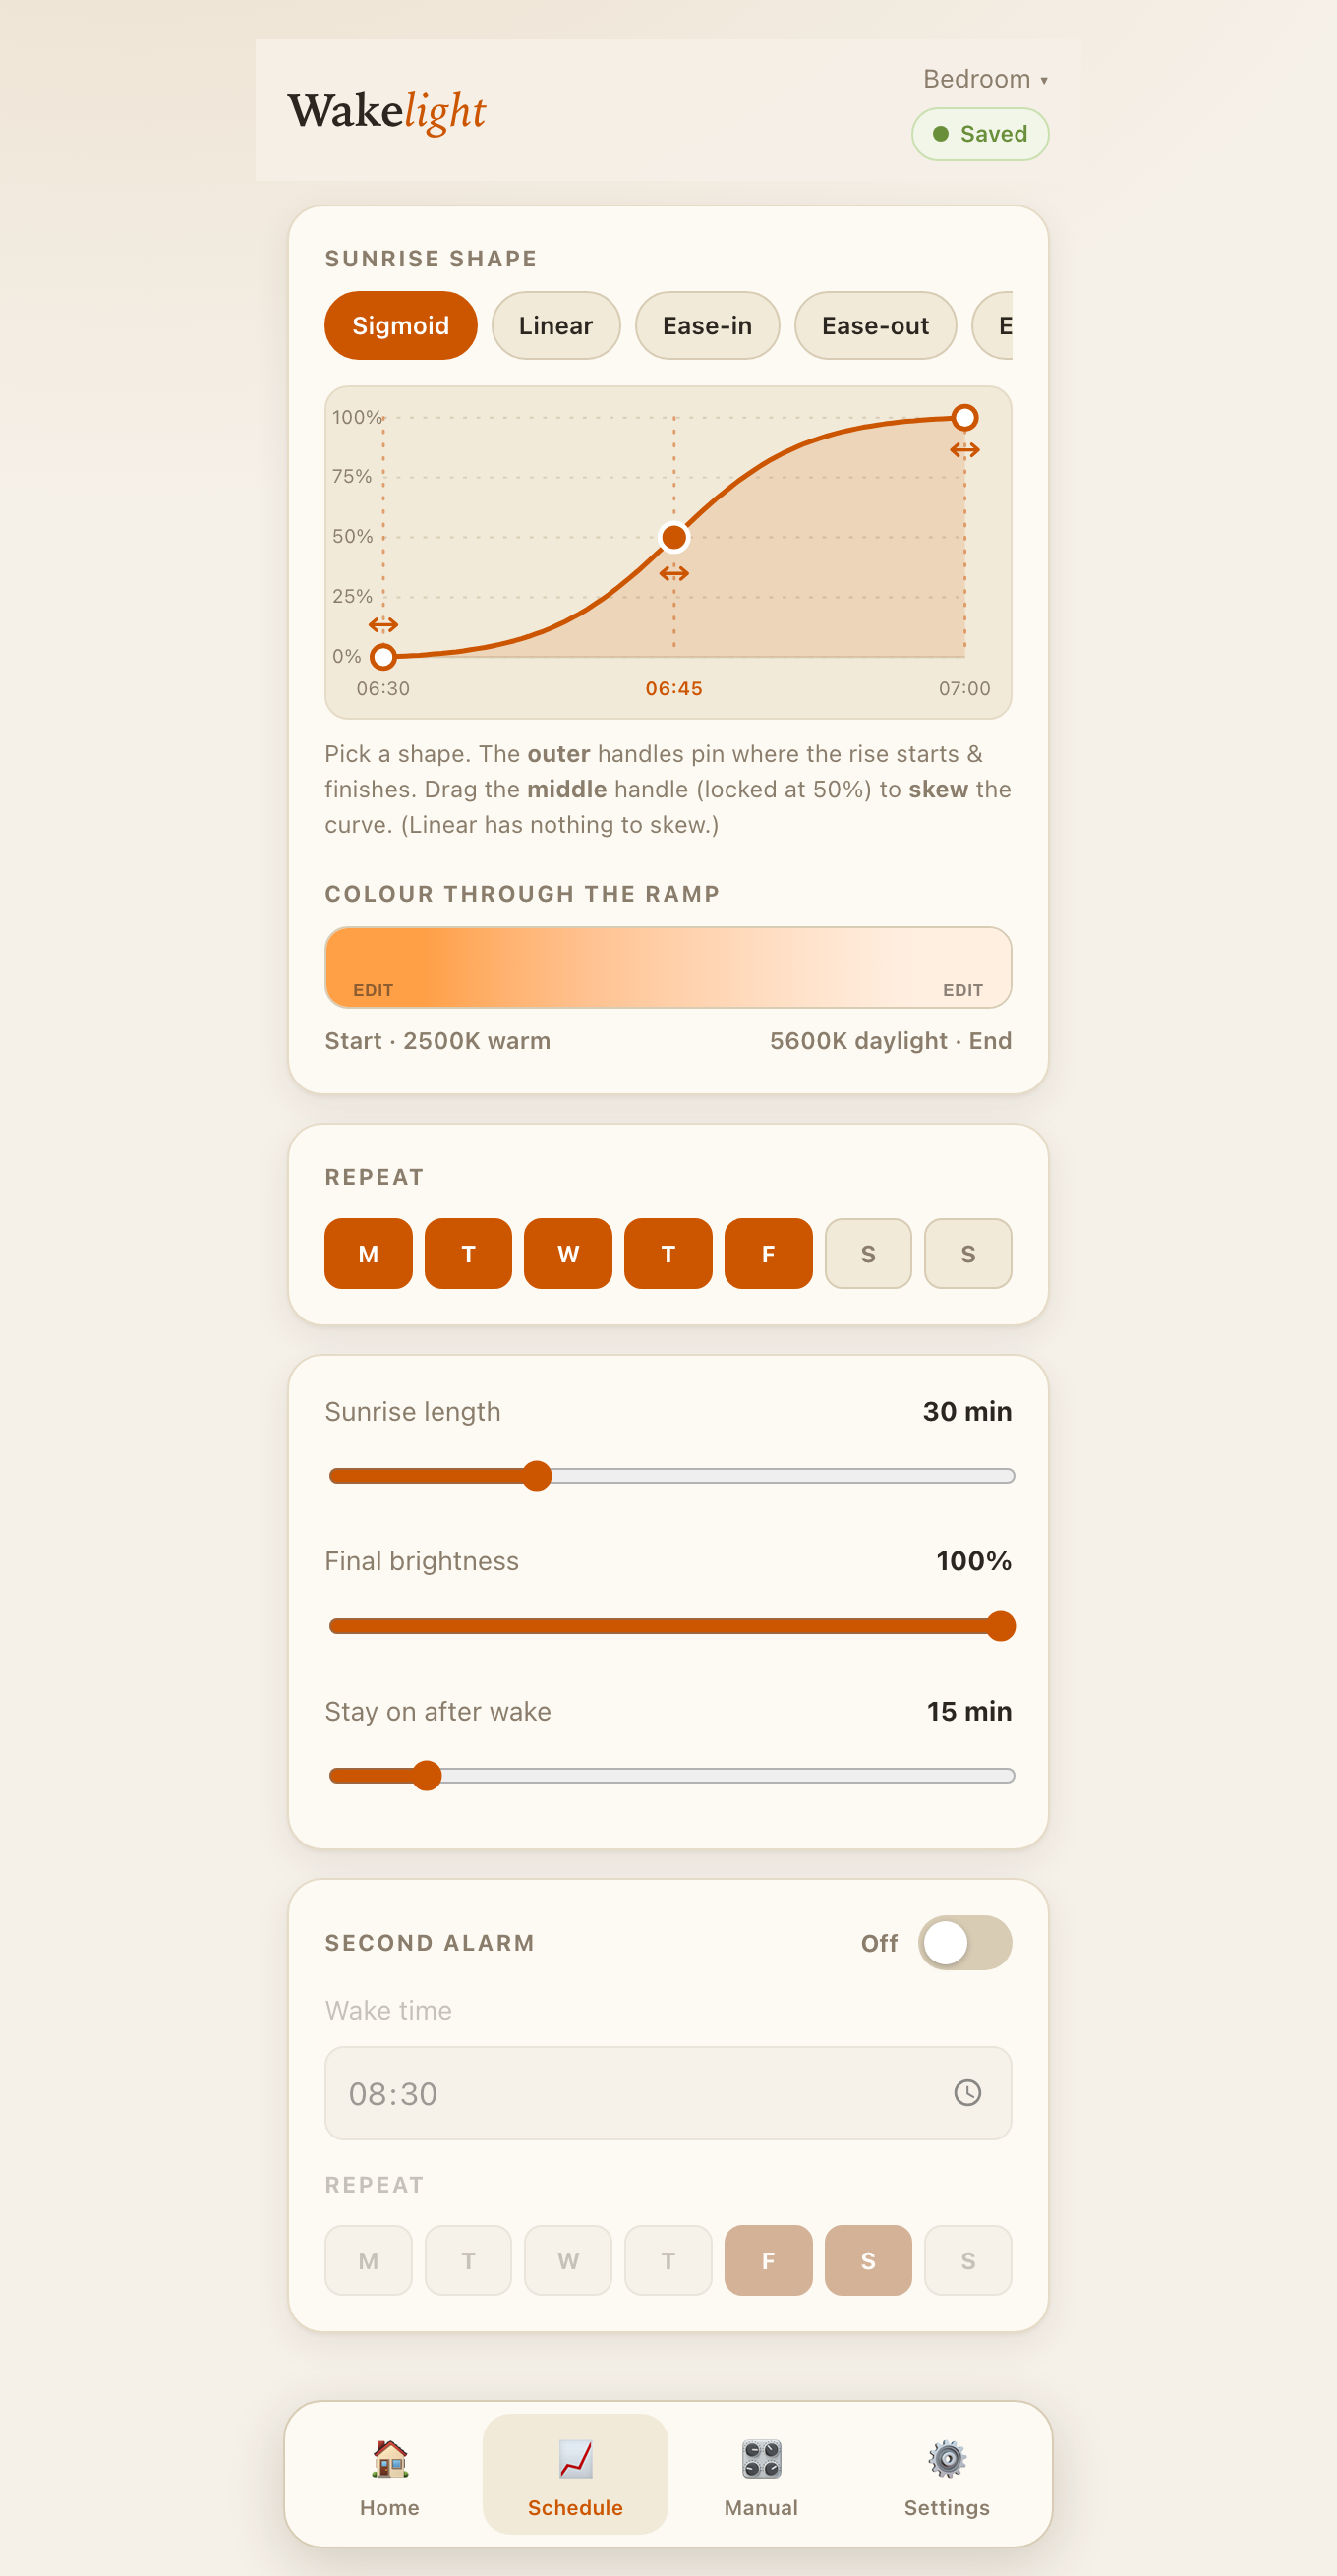
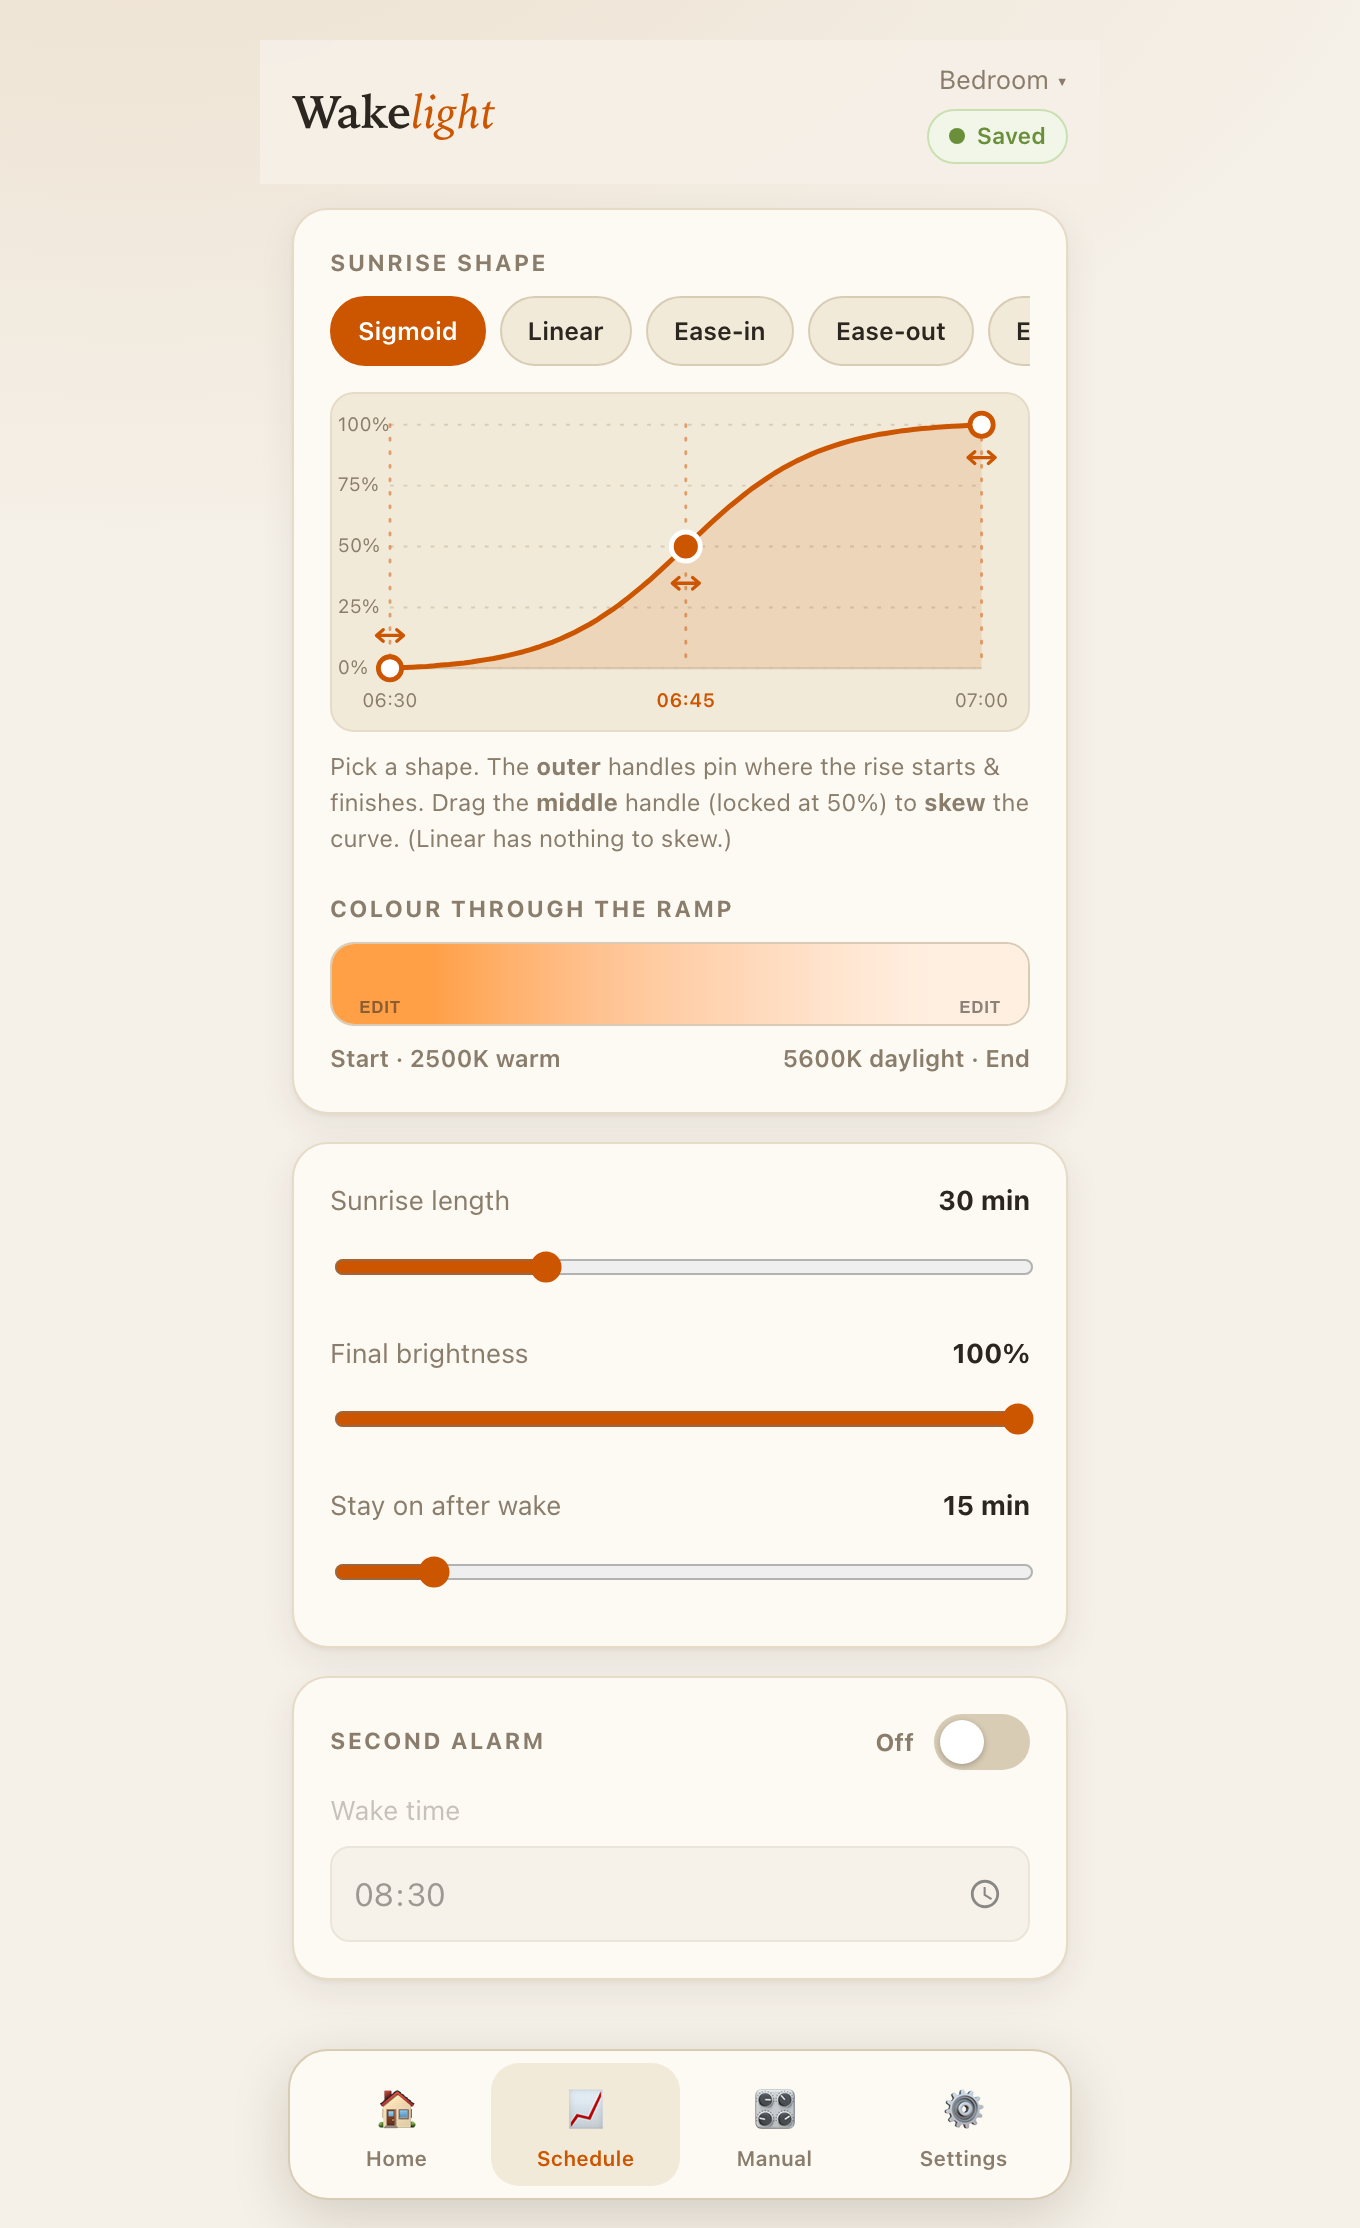
remove the day-of-week "Repeat" system; alarms fire daily
Tom found the per-day repeat unclear. Alarms now simply fire every day at their
set time (armed by the on/off toggle; "end today's wake-up" skips just today).

- config.h: drop Alarm.days; NVS key bumped to cfg5
- scheduler.cpp: alarmWakeEpoch no longer gates on a day mask
- portal.cpp: schedule JSON no longer carries days
- web_page.h: remove the Repeat card, the second alarm's day picker, the day-pill
  JS and now-unused .days CSS
- README + schedule screenshot updated to match

diff --git a/v2-better-wakelight/firmware/src/web_page.h b/v2-better-wakelight/firmware/src/web_page.h
@@ -95,10 +95,6 @@ static const char PORTAL_HTML[] PROGMEM = R"HTML(<!doctype html>
     color:var(--text);font:inherit;font-weight:600;font-size:14px;border-radius:12px;padding:13px;cursor:pointer}
   .endbtn.active{background:var(--accent);color:#fff;border-color:var(--accent);box-shadow:0 2px 10px rgba(204,85,0,.22)}
   .endbtn:disabled{opacity:.5}
-  .days{display:flex;gap:6px;margin-top:12px}
-  .d{font-size:12px;font-weight:700;flex:1;height:36px;border-radius:9px;display:grid;place-items:center;
-    background:var(--panel2);color:var(--muted);cursor:pointer;border:1px solid var(--line2)}
-  .d.on{background:var(--accent);color:#fff;border-color:var(--accent)}
   .curvewrap{margin-top:6px}
   .curve{display:block;width:100%;height:170px;background:var(--panel2);border:1px solid var(--line);
     border-radius:12px;touch-action:none}
@@ -224,8 +220,6 @@ static const char PORTAL_HTML[] PROGMEM = R"HTML(<!doctype html>
       </div>
     </div>
 
-    <div class="card"><p class="h2">Repeat</p><div class="days" id="days1"></div></div>
-
     <div class="card">
       <div class="lr" style="margin-top:0"><span>Sunrise length</span><b id="sunlenV">30 min</b></div>
       <input type="range" class="full" id="sunlen" min="5" max="90" value="30">
@@ -242,8 +236,6 @@ static const char PORTAL_HTML[] PROGMEM = R"HTML(<!doctype html>
       <div class="body-dim" id="a2body" style="margin-top:10px">
         <div class="lr" style="margin-top:0"><span>Wake time</span></div>
         <input type="time" id="a2time" value="08:30">
-        <p class="h2" style="margin-top:14px">Repeat</p>
-        <div class="days" id="days2"></div>
       </div>
     </div>
   </section>
@@ -440,18 +432,6 @@ $('#sunlen').addEventListener('input',()=>{$('#sunlenV').textContent=$('#sunlen'
 $('#finlevel').addEventListener('input',()=>{$('#finV').textContent=$('#finlevel').value+'%';sched.finalLevel=+$('#finlevel').value;saveSched();});
 $('#hold').addEventListener('input',()=>{$('#holdV').textContent=$('#hold').value+' min';sched.hold=+$('#hold').value;saveSched();});
 
-// ---------- repeat day pills (Mon-first display -> tm_wday bits) ----------
-const DAYBITS=[1,2,3,4,5,6,0], DAYLBL=['M','T','W','T','F','S','S'];
-function buildDays(el,ai){
-  el.innerHTML=DAYBITS.map((b,i)=>`<div class="d" data-bit="${b}">${DAYLBL[i]}</div>`).join('');
-  el.querySelectorAll('.d').forEach(d=>d.onclick=()=>{
-    const bit=+d.dataset.bit; sched.alarms[ai].days^=(1<<bit);
-    d.classList.toggle('on'); saveSched();
-  });
-}
-function paintDays(el,mask){el.querySelectorAll('.d').forEach(d=>d.classList.toggle('on',!!(mask&(1<<+d.dataset.bit))));}
-buildDays($('#days1'),0); buildDays($('#days2'),1);
-
 // ---------- second alarm ----------
 $('#a2sw').addEventListener('change',e=>{
   sched.alarms[1].on=e.target.checked;
@@ -602,12 +582,10 @@ function applySched(j){
   $('#wakeSw').checked=j.scheduleOn;$('#wakeWord').textContent=j.scheduleOn?'On':'Off';$('#wakeWord').classList.toggle('off',!j.scheduleOn);
   // scroller
   requestAnimationFrame(()=>{hCol.scrollTop=Math.floor(j.alarms[0].wake/60)*50;mCol.scrollTop=Math.round((j.alarms[0].wake%60)/5)*50;markSel(hCol);markSel(mCol);});
-  paintDays($('#days1'),j.alarms[0].days);
   // second alarm
   $('#a2sw').checked=j.alarms[1].on;$('#a2word').textContent=j.alarms[1].on?'On':'Off';$('#a2word').classList.toggle('off',!j.alarms[1].on);
   $('#a2sw').closest('.card').classList.toggle('disabled',!j.alarms[1].on);
   $('#a2time').value=String(Math.floor(j.alarms[1].wake/60)).padStart(2,'0')+':'+String(j.alarms[1].wake%60).padStart(2,'0');
-  paintDays($('#days2'),j.alarms[1].days);
   // detail sliders
   $('#sunlen').value=j.sunriseMin;$('#sunlenV').textContent=j.sunriseMin+' min';
   $('#finlevel').value=j.finalLevel;$('#finV').textContent=j.finalLevel+'%';

diff --git a/v2-better-wakelight/firmware/src/config.h b/v2-better-wakelight/firmware/src/config.h
@@ -5,7 +5,7 @@
 // Persistent configuration (NVS-backed) for the WakeLight controller.
 //
 // Model mirrors the web UI 1:1:
-//   - up to two alarms, each a single wake time + a day-of-week mask
+//   - up to two alarms, each just a single wake time (fires every day)
 //   - one shared "sunrise shape": a maths curve (function + rise window + skew)
 //     that ramps brightness 0 -> finalLevel and sweeps colour startCct -> endCct
 //   - hold time after wake, then off
@@ -29,8 +29,7 @@ enum CurveFn : uint8_t {
 
 struct Alarm {
   bool     enabled = false;
-  uint8_t  days    = 0;       // bitmask, bit0=Sun .. bit6=Sat (tm_wday)
-  uint16_t wakeMin = 7 * 60;  // minute-of-day the lamp reaches full brightness
+  uint16_t wakeMin = 7 * 60;  // minute-of-day the lamp reaches full brightness (fires daily)
 };
 
 struct Config {
@@ -66,9 +65,8 @@ struct Config {
   char     name[32]      = "WakeLight";   // friendly name shown in the UI
 
   Config() {
-    // Primary alarm on by default: 07:00, Monday–Friday (tm_wday bits 1..5).
+    // Primary alarm on by default: 07:00, every day.
     alarms[0].enabled = true;
-    alarms[0].days    = 0b0111110;
     alarms[0].wakeMin = 7 * 60;
   }
 

diff --git a/v2-better-wakelight/firmware/src/config.cpp b/v2-better-wakelight/firmware/src/config.cpp
@@ -6,7 +6,7 @@ Config cfg;
 
 static Preferences prefs;
 static const char* NVS_NS  = "wakelight";
-static const char* NVS_KEY = "cfg4";        // bump suffix if struct layout changes
+static const char* NVS_KEY = "cfg5";        // bump suffix if struct layout changes
 
 void Config::load() {
   prefs.begin(NVS_NS, true);

diff --git a/v2-better-wakelight/firmware/src/portal.cpp b/v2-better-wakelight/firmware/src/portal.cpp
@@ -57,13 +57,11 @@ static void handleStatus() {
 
 static void alarmToJson(JsonObject o, const Alarm& a) {
   o["on"]   = a.enabled;
-  o["days"] = a.days;
   o["wake"] = a.wakeMin;
 }
 static void alarmFromJson(JsonVariantConst o, Alarm& a) {
   if (o.isNull()) return;
   a.enabled = o["on"] | a.enabled;
-  if (o["days"].is<int>()) a.days = (uint8_t)((int)o["days"] & 0x7F);
   if (o["wake"].is<int>()) a.wakeMin = constrain((int)o["wake"], 0, 1439);
 }
 

diff --git a/v2-better-wakelight/firmware/src/scheduler.cpp b/v2-better-wakelight/firmware/src/scheduler.cpp
@@ -74,9 +74,9 @@ float Scheduler::curveAt(float t) {
 
 struct Target { bool active; bool hold; float bright; float cct; };
 
+// The alarm fires every day; this is its wake epoch on the day of `dayRef`.
 static time_t alarmWakeEpoch(const Alarm& a, time_t dayRef) {
   struct tm lt; localtime_r(&dayRef, &lt);
-  if (!(a.days & (1 << lt.tm_wday))) return 0;
   lt.tm_hour = a.wakeMin / 60; lt.tm_min = a.wakeMin % 60; lt.tm_sec = 0; lt.tm_isdst = -1;
   return mktime(&lt);
 }

diff --git a/v2-better-wakelight/README.md b/v2-better-wakelight/README.md
@@ -152,7 +152,7 @@ shape the sunrise, choose its colours, and control the light by hand.
 - **Sunrise:** brightness follows a chosen maths curve over the sunrise window,
   reaching your final level at the wake time while the colour sweeps from a warm
   start to a cool finish; it then holds for a configurable time and switches off.
-  Up to two alarms (each with its own days), plus a manual override and effects.
+  Up to two daily alarms, plus a manual override and effects.
 - **Many lamps:** each board publishes a unique `name.local` over mDNS (the first
   one also answers `wakelight.local`), so the app can discover and list every
   WakeLight on the network and jump between them.